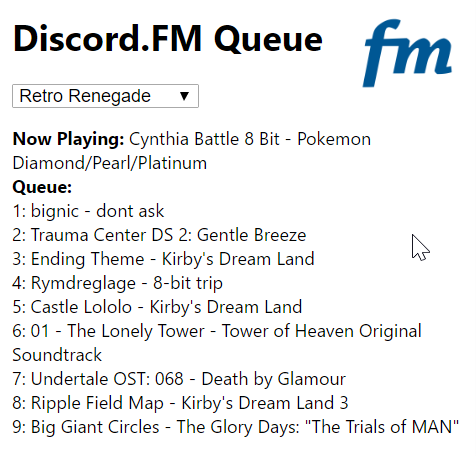
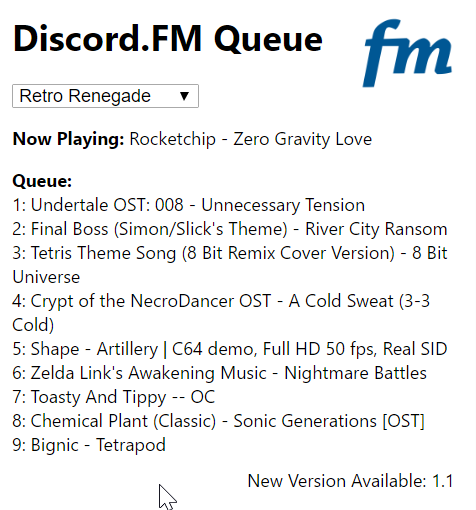
1.2

Changed region(s): [[0.0, 0.1535, 0.9706, 1.0], [0.0294, 0.0307, 0.6765, 0.1228], [0.7647, 0.0307, 0.9706, 0.2149]]

diff --git a/Chrome/source/stuffs.js b/Chrome/source/stuffs.js
@@ -1,6 +1,6 @@
 window.onload = function () {
     var libId = "";
-    var version = "1.1";
+    var version = "1.2";
     chrome.storage.local.get('libId', function (result) {
         libId = result.libId;
         if (libId == null) libId = "electro-hub";
@@ -9,6 +9,8 @@ window.onload = function () {
         checkforupdates();
     });
     document.getElementById('sweg').onchange = function () {
+        document.getElementById('stuff').innerHTML = "";
+        document.getElementById('theySeeMeLoading').innerHTML = '<img src="loading.gif" style="width: 100px;" /><br /><br />';
         var aaa = document.getElementById("sweg");
         var no = aaa.options[aaa.selectedIndex].id;
         chrome.storage.local.set({ 'libId': no });
@@ -16,8 +18,11 @@ window.onload = function () {
     }
     function potato(libId) {
         var request = new XMLHttpRequest();
+        console.log("bbb");
         request.open('GET', 'https://temp.discord.fm/libraries/' + libId + '/queue', true);
         request.onload = function () {
+            document.getElementById('stuff').innerHTML = '<p><b>Now Playing: </b><span id="song"></span></p><p><b>Queue:</b><br /><span id="queue"></span></p>';
+            document.getElementById('theySeeMeLoading').innerHTML = "";
             var data = JSON.parse(request.responseText);
             document.getElementById(data.bot).selected = 'selected';
             document.getElementById('song').textContent = data.current.title;
@@ -26,6 +31,7 @@ window.onload = function () {
             while (poop !== data.queue.length) {
                 document.getElementById('queue').innerHTML = document.getElementById('queue').innerHTML + "<br />" + (poop + 1) + ": " + data.queue[poop].title;
                 poop++;
+                console.log("aaa");
             }
         }
         request.send();

diff --git a/Chrome/source/popup.html b/Chrome/source/popup.html
@@ -1,7 +1,7 @@
 <html>
 <body style="min-width:300px;">
-    <script src="stuffs.js"></script>
     <h1>Discord.FM Queue</h1>
+    <script src="stuffs.js"></script>
     <select id="sweg" onchange="bidoof()">
         <option id="electro-hub">Electro Hub</option>
         <option id="chill-corner">Chill Corner</option>
@@ -14,16 +14,15 @@
         <option id="coffee-house-jazz">Coffee House Jazz</option>
     </select>
     <img src="dfmlogo.png" style="position: fixed; right: 0px; top: 0px; width: 70px; padding: 0px 10px" />
-    <p>
-        <b>Now Playing: </b>
-        <span id="song"></span>
-    </p>
-    <p>
-        <b>Queue:</b>
+    <div id="stuff">
         <br />
-        <span id="queue"></span>
-    </p>
+    </div>
+    <div style="text-align: center;" id="theySeeMeLoading">
+        <img src="loading.gif" style="width: 100px;" />
+        <br />
+        <br />
+    </div>
     <br />
-    <p style="position: fixed; right: 0px; bottom: 0px" id="version">Checking for updates...</p>
+    <p style="position: fixed; right: 0px; bottom: 0px; padding: 0px 13px" id="version">Checking for updates...</p>
 </body>
 </html>

diff --git a/Chrome/README.md b/Chrome/README.md
@@ -1,4 +1,4 @@
-# DFM Browser Extension - Chrome Edition (1.1)
+# DFM Browser Extension - Chrome Edition (1.2)
 It's for Google Chrome.
 
 # How do I install it?

diff --git a/CHANGELOG.md b/CHANGELOG.md
@@ -1,3 +1,7 @@
+#1.2
+-Fixed version position.
+-Added loading screen.
+
 #1.1
 -Fixed small bug.
 
